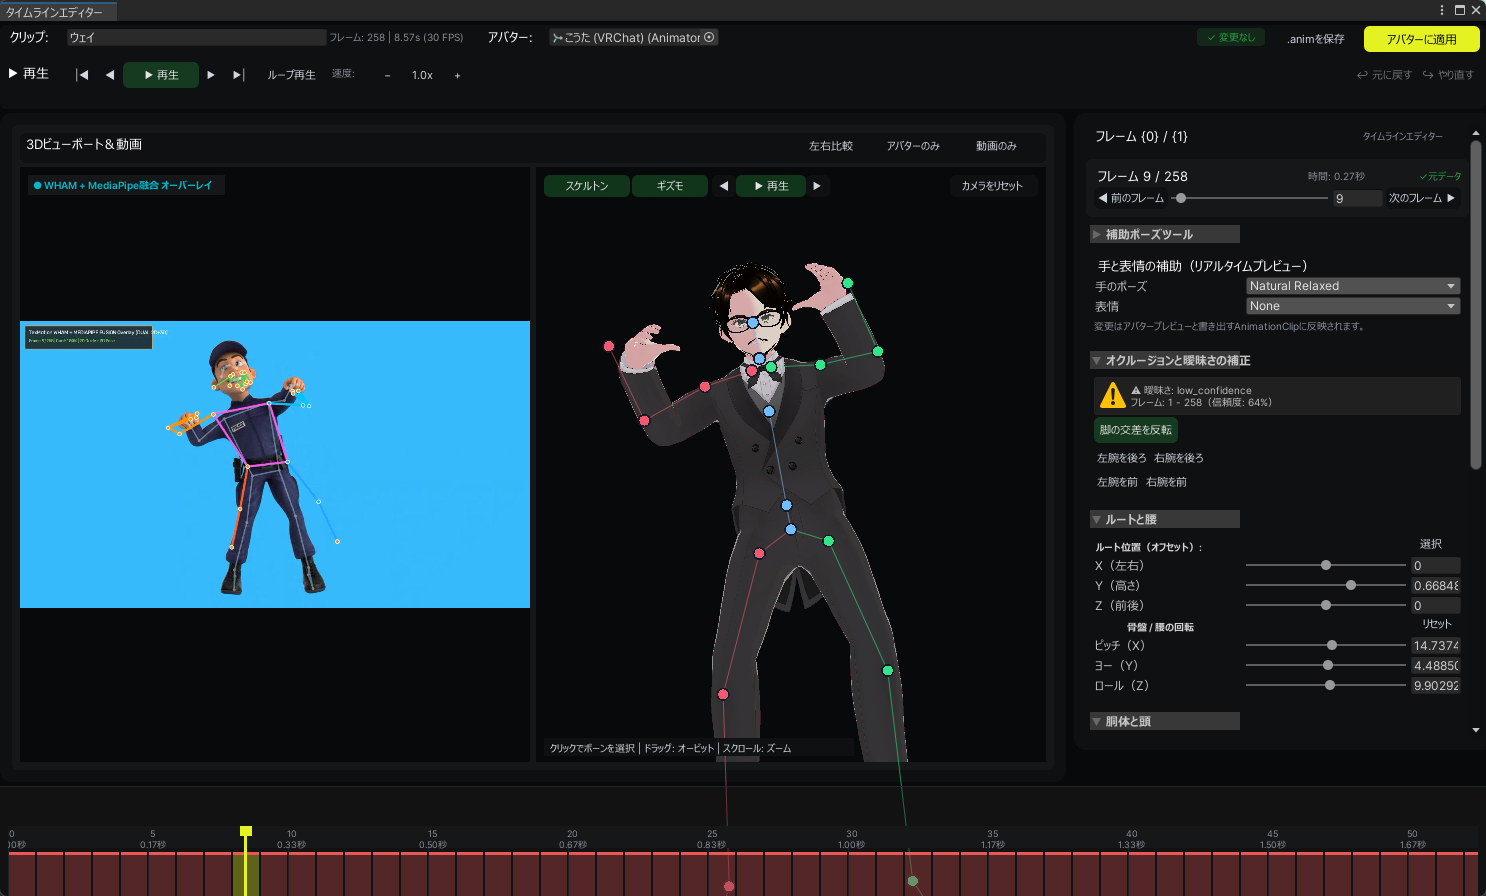
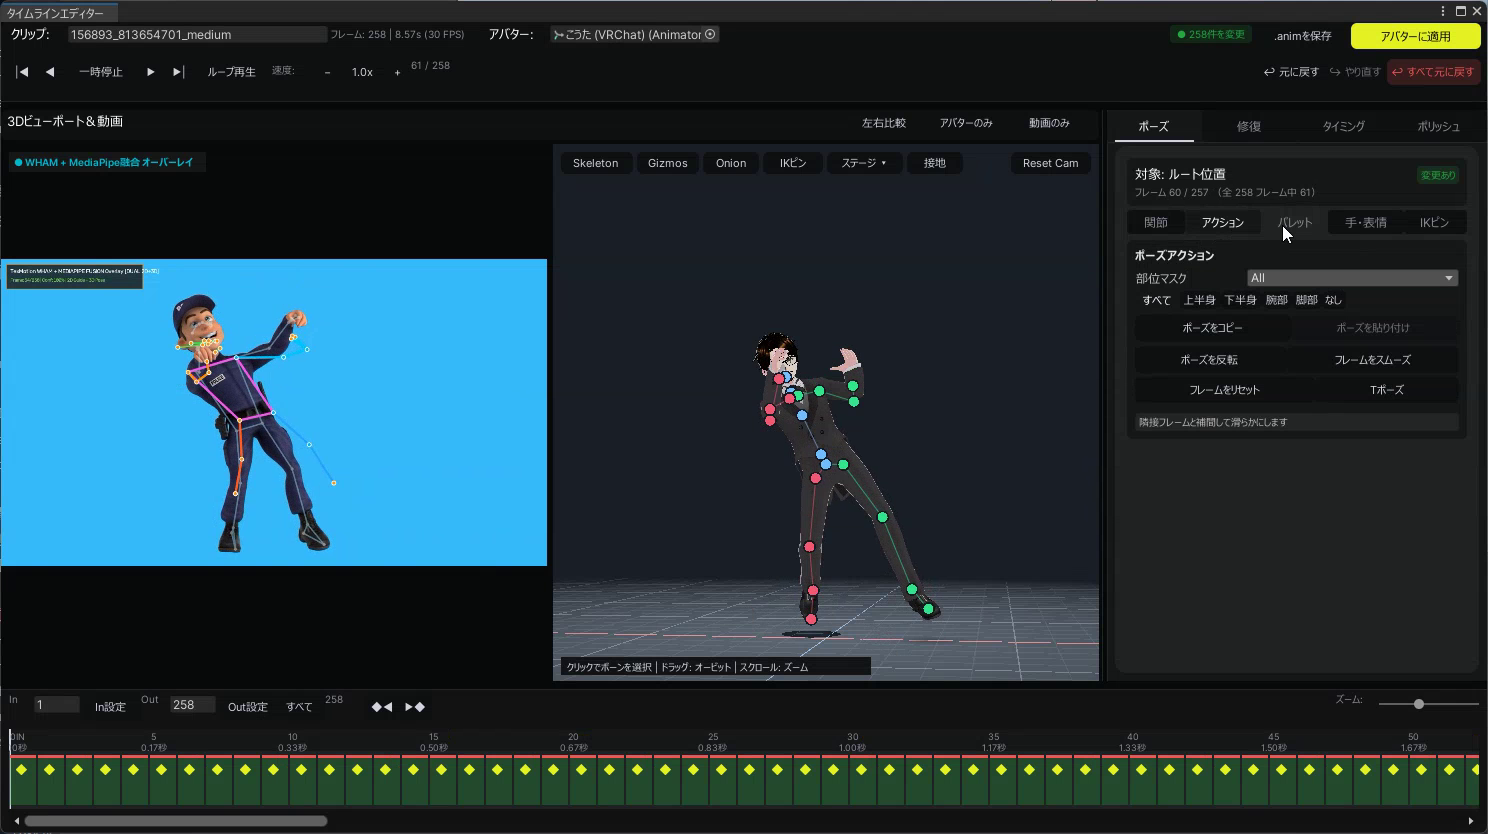
docs: update README screenshot and feature description with latest 4-tab timeline UI

diff --git a/README.md b/README.md
@@ -21,7 +21,7 @@ By integrating the native C++/GGML inference engine via [kimodo.cpp](https://git
 
 * **In-Engine Local Inference**: Executes GGUF diffusion inference directly inside the Unity Editor using `kimodo.dll` and `ggml-vulkan`. No external Python environment is required for text-to-motion generation.
 * **Video-to-Motion Pose Extraction**: Extracts humanoid 3D motions from common video formats (`.mp4`, `.mov`, etc.). Combines MediaPipe keypoint detection with WHAM global 3D pose lifting to mitigate tracking degradation caused by limb crossing or occlusion.
-* **Motion Timeline and Pose Editor**: Provides a dedicated visual timeline editor to inspect and adjust animation clips frame-by-frame. Supports per-joint Euler angle and root position editing, pose copying and mirroring, jitter reduction via Slerp interpolation, and variable playback speeds (0.1x to 2.0x).
+* **Motion Timeline and Pose Editor**: Provides a modular 4-tab visual timeline workspace (Pose, Repair, Timing, Polish) to inspect and adjust animation clips frame-by-frame. Features a 3D studio stage with contact shadows, background switching (Stage/Dark/Green), per-joint Euler angle and root position editing, pose copying and mirroring, jitter reduction via Slerp interpolation, and variable playback speeds (0.1x to 2.0x).
 * **Advanced Pose Correction Suite**: Features 11 specialized repair tools and a 9-filter **Stylized Hand-Keyed Polish** engine: 3D onion skinning, 2-Bone IK dragging, In/Out range masking, easing tweens, loop boundary blending, additive range offsets, armpit limiters, foot grounding/sliding locks, glitch auto-repair, 8-slot pose palette, range retiming, plus hand-keyed timing filters (snap & ease, moving holds, anime 2s/3s stepping, landing cushion & bounce, contrapposto booster, kinematic chain delay, deceleration overshoot, dynamic pose exaggeration, and 3D trajectory arc smoothing). (See the [Advanced Pose Correction & Stylized Polish Guide](docs/timeline_editor_advanced_guide.md) for detailed tutorials and specifications).
 * **Interactive 3D Preview Viewport**: Renders real-time previews using `PreviewRenderUtility`. Automatically adapts render target dimensions to vertical or horizontal video aspect ratios, and provides camera orbit, zoom controls, and a synchronized side-by-side video overlay.
 * **Humanoid Muscle Curve Baking**: Converts estimated skeletal motions into Unity native 95-Muscle values and Root translation/rotation curves via `HumanPoseHandler`. The baked animations remain compatible across avatars of differing proportions and body scales.
@@ -121,7 +121,7 @@ When using HMR2, the bundled adapter `pose_pipeline/adapters/texmotion_hmr2_adap
 
 * **Unity 内でのローカル推論**: `kimodo.dll` および `ggml-vulkan` による GGUF 形式モデルの拡散推論を Unity エディタ内で直接実行します。テキストからのモーション生成において、外部 Python 環境を用意する必要はありません。
 * **動画からのモーション抽出**: 一般的な動画ファイル（`.mp4` や `.mov` など）から Humanoid 3D モーションを抽出します。MediaPipe によるキーポイント検出と WHAM によるグローバル 3D 姿勢推定を組み合わせることで、手足の交差や身体の重なりが生じる動作でもトラッキングの破綻を抑えます。
-* **モーションタイムラインとポーズ編集**: 専用のタイムラインエディタを備えており、生成したクリップをフレーム単位で調整できます。関節ごとのオイラー角やルート移動の編集、ポーズのコピーと反転貼り付け、Slerp 補間によるブレの抑制、0.1 倍から 2.0 倍までの可変速再生に対応します。
+* **モーションタイムラインとポーズ編集**: 「ポーズ」「修復」「タイミング」「ポリッシュ」の 4 大タブにモジュール化された専用タイムラインエディタを備えており、生成したクリップをフレーム単位で調整できます。チェッカー床・動的シャドウ付きの 3D スタジオステージ（Stage/Dark/Green 背景切替対応）、関節ごとのオイラー角やルート移動の編集、ポーズのコピーと反転貼り付け、Slerp 補間によるブレの抑制、0.1 倍から 2.0 倍までの可変速再生に対応します。
 * **高度ポーズ修正ツール群＆手付け風クオリティ向上**: 姿勢推定時のノイズ修正ツール 11 種に加え、プロの手付けアニメーション品質へ昇華する 9 種類の **手付け風クオリティ向上（Stylized Polish）** 機能を統合しています。タメ・ツメ強調（Snap & Ease）、アニメコマ打ち（2コマ／3コマ打ち）、キーフレーム削減、接地衝撃クッション＆バウンス、コントラポスト（骨盤傾斜強調）、四肢遅延しなり（Kinematic Drag）、停止時反動（Overshoot）、ポーズ誇張（Pose Exaggeration）、および 3D 円弧整流（Trajectory Arc Smoother）により、モキャプ特有の均一速度や浮遊感を劇的に改善します（詳細は [高度ポーズ修正＆手付け風クオリティ向上ガイド](docs/timeline_editor_advanced_guide.md) を参照）。
 * **インタラクティブな 3D プレビュー**: `PreviewRenderUtility` を用いた専用ビューポートで動作を確認できます。縦型動画や横型動画のアスペクト比に合わせて描画サイズを自動調整し、カメラの視点回転、拡大縮小、元動画と検出点の重ね合わせ表示を行えます。
 * **Humanoid マッスルカーブへの変換**: Unity 標準の `HumanPoseHandler` を介して、推論結果の骨格データを 95 系統の Muscle 値および Root 移動・回転カーブに変換します。体型や骨格比率の異なる Humanoid アバターに対してもモーションを適用できます。
